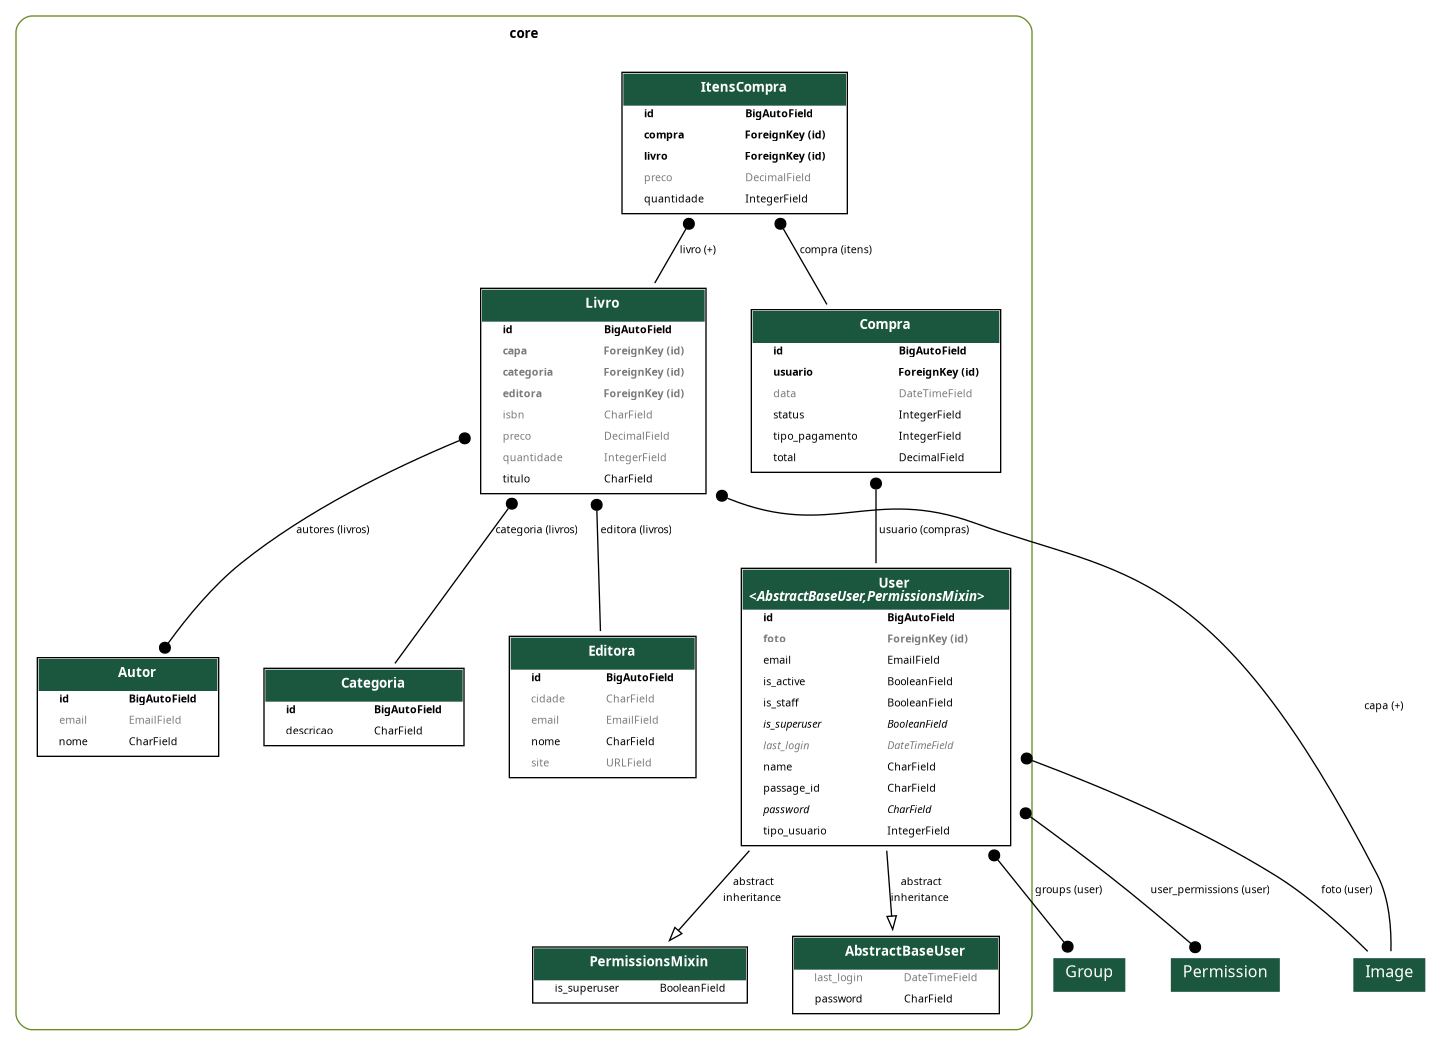
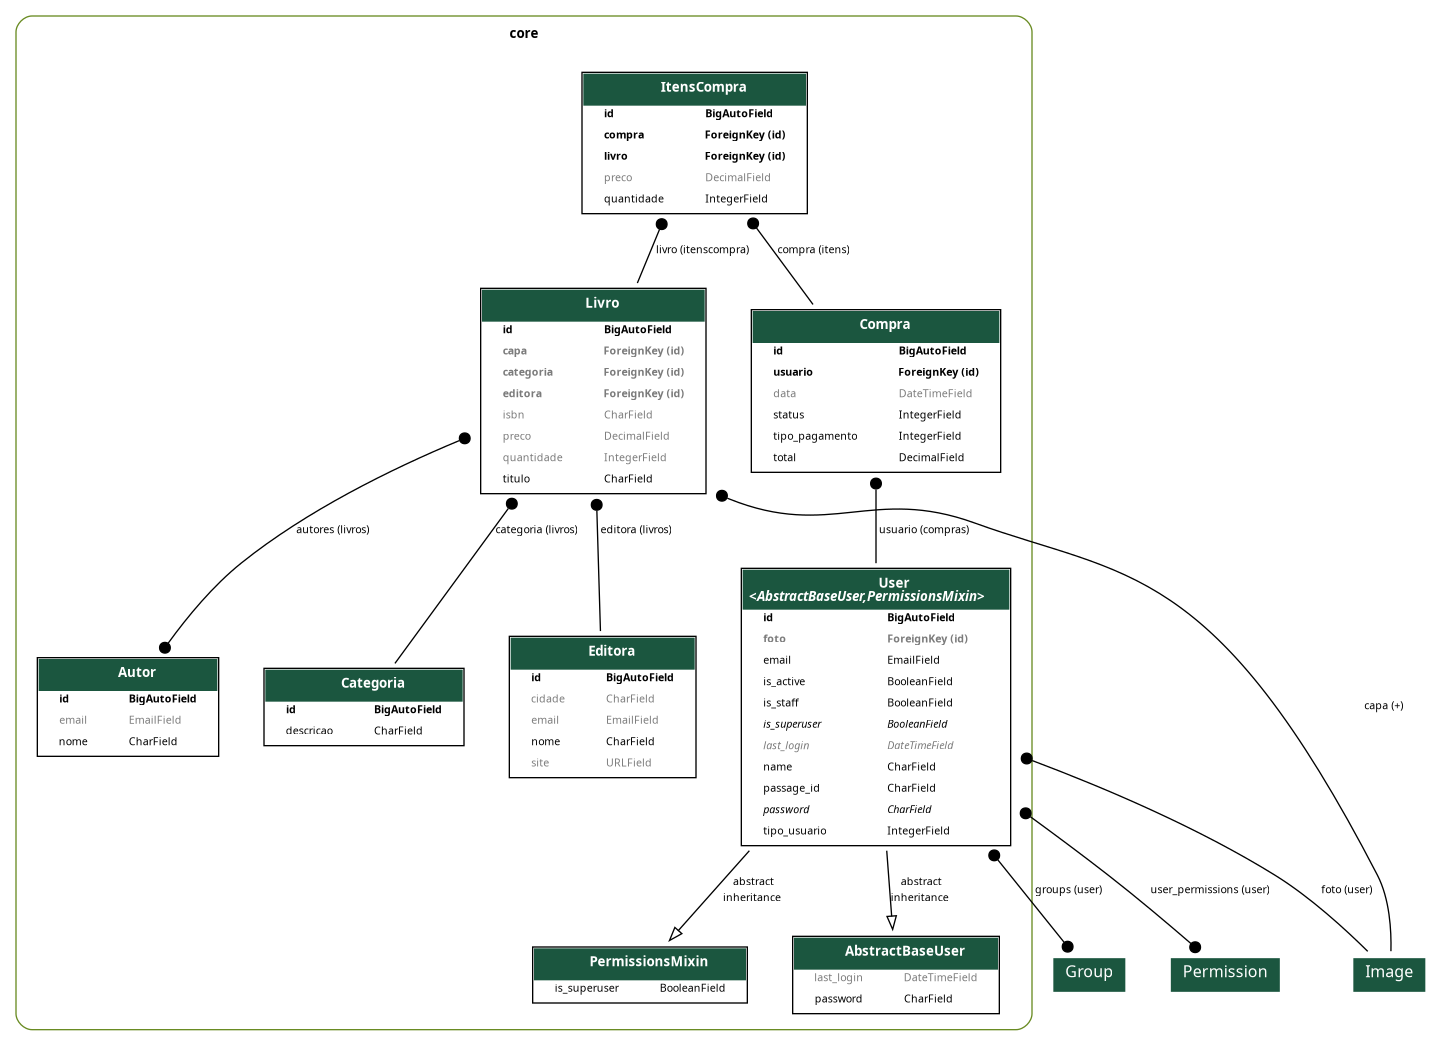
Ajustar relacionamento entre ItensCompra e Livro, adicionar endpoint para livros mais vendidos e remover script de verificação de senha

Changed region(s): [[0.406, 0.0612, 0.5933, 0.2447]]

diff --git a/core/views/livro.py b/core/views/livro.py
@@ -1,3 +1,5 @@
+from django.db.models.aggregates import Sum
+
 from django_filters.rest_framework import DjangoFilterBackend
 from rest_framework import status
 from rest_framework.decorators import action
@@ -71,3 +73,23 @@ class LivroViewSet(ModelViewSet):
         return Response(
             {"status": "Quantidade ajustada com sucesso", "novo_estoque": livro.quantidade}, status=status.HTTP_200_OK
         )
+
+    @action(detail=False, methods=["get"])
+    def mais_vendidos(self, request):
+        """
+        Retorna os livros com mais de 10 unidades vendidas.
+        """
+        # Calcula o total de unidades vendidas para cada livro
+        livros = Livro.objects.annotate(total_vendidos=Sum("itenscompra__quantidade")).filter(total_vendidos__gt=10)
+
+        # Serializa os dados para a resposta
+        data = [
+            {
+                "id": livro.id,
+                "titulo": livro.titulo,
+                "total_vendidos": livro.total_vendidos,
+            }
+            for livro in livros
+        ]
+
+        return Response(data, status=status.HTTP_200_OK)

diff --git a/core/migrations/0030_alter_itenscompra_livro.py b/core/migrations/0030_alter_itenscompra_livro.py
@@ -1,0 +1,21 @@
+# Generated by Django 5.1.3 on 2024-11-30 06:52
+
+import django.db.models.deletion
+from django.db import migrations, models
+
+
+class Migration(migrations.Migration):
+
+    dependencies = [
+        ("core", "0029_compra_total"),
+    ]
+
+    operations = [
+        migrations.AlterField(
+            model_name="itenscompra",
+            name="livro",
+            field=models.ForeignKey(
+                on_delete=django.db.models.deletion.PROTECT, related_name="itenscompra", to="core.livro"
+            ),
+        ),
+    ]

diff --git a/core/models/compra.py b/core/models/compra.py
@@ -36,6 +36,6 @@ class Compra(models.Model):
 
 class ItensCompra(models.Model):
     compra = models.ForeignKey(Compra, on_delete=models.CASCADE, related_name="itens")
-    livro = models.ForeignKey(Livro, on_delete=models.PROTECT, related_name="+")
+    livro = models.ForeignKey(Livro, on_delete=models.PROTECT, related_name="itenscompra")
     quantidade = models.IntegerField(default=1)
     preco = models.DecimalField(max_digits=10, decimal_places=2, blank=True, null=True, default=0)

diff --git a/core/admin.py b/core/admin.py
@@ -98,4 +98,3 @@ class CompraAdmin(admin.ModelAdmin):
     ordering = ("usuario", "total", "status")
     list_per_page = 25
     inlines = [ItensCompraInline]
-
